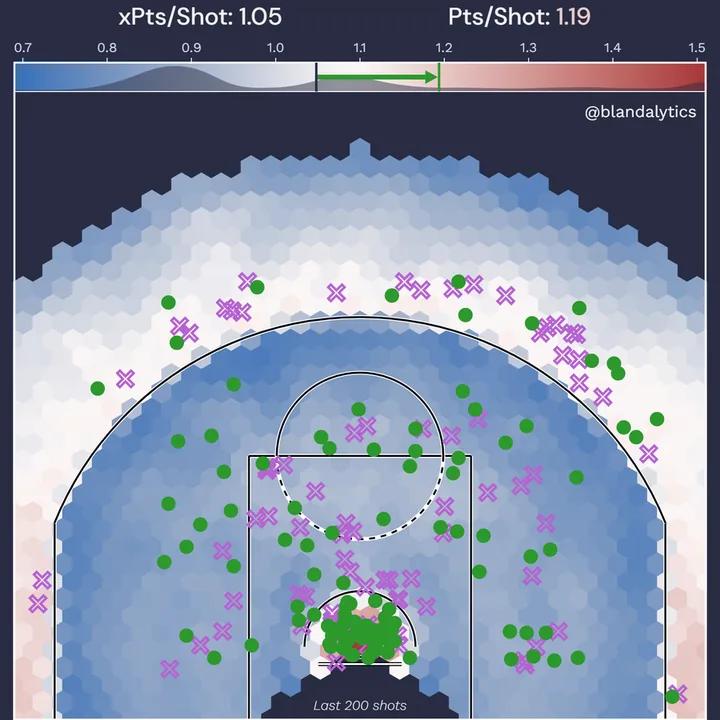
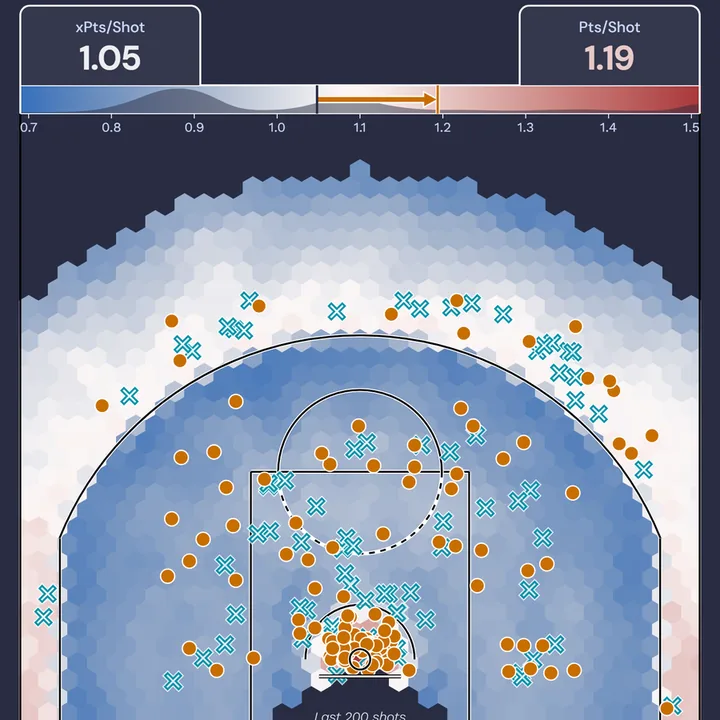
NBA Shot Charts: balanced amber and cyan, stat pills, hoop on top, firmer court lines
- Amber (makes, points added) and cyan (misses, points given back), PLPD's pair as Model
  Drilldown uses it, each at the luminance with equal contrast against the background and white
  (#c86e00, #0092a9: ~3.7:1, ~3.4:1 against the scale's near-white midpoint). White outlines
  return on the markers, the arrow and the Pts/Shot line. The scatter uses the same pair.
- xPts/Shot and Pts/Shot sit in Lineup Sim-style pills standing on the colorbar, flush with the
  court's left and right sidelines: a label over the value in bold, in the scale's colour. The
  scale's tick labels move under the bar; the @blandalytics tag is dropped.
- The hoop and backboard draw after the shots, so they are always on top.
- Court lines keep at least 1.5 (black) and 3.5 (white) device pixels on a small canvas.
- The canvases also redraw when the pixel ratio changes at the same CSS width (Site Manager's
  note on #298).

figure.js and app.js go to v5, scatter.js to v4; the homepage tile is regrabbed (?v=5).

diff --git a/nba-shot-charts/figure.js b/nba-shot-charts/figure.js
@@ -1,19 +1,20 @@
 // NBA Shot Charts: the app's scoring summary figure (shot_summary() in nba_shot_chart.py),
 // drawn on an 800 x 1440 canvas with the app's two panels stacked: the court and its xPTS scale
-// on top, the points waterfall under it. In the app's colours: green where a player made shots and added points, purple where they
-// missed and gave some back, the xPTS court in seaborn's vlag.
+// on top, the points waterfall under it. Amber where a player made shots and added points, cyan
+// where they missed and gave some back, the xPTS court in seaborn's vlag.
 
 import { SEASON_SHOT_LIMIT, density } from "./model.js?v=1";
 
-export const W = 800, H = 1440;
+export const W = 800, H = 1460;
 
 const C = {
   bg: "#292c42", ink: "#f0f1f5", nav: "#cbd7fd",
-  // the app's green and purple, each lightened to the luminance (0.234) that gives the same contrast
-  // against the background and the scale's white midpoint (~3.7:1 and ~3.4:1), so neither needs a
-  // white edge; the purple turned a little toward violet so it doesn't read as magenta
-  green: "#2c992c", purple: "#b662d2",
+  // PLPD's amber (made, points added) and cyan (missed, points given back), as Model Drilldown
+  // uses them, each set to the luminance (0.234) with the same contrast against the background and
+  // white (~3.7:1, ~3.4:1 against the scale's near-white midpoint)
+  amber: "#c86e00", cyan: "#0092a9",
   line: "#000000", outline: "#ffffff",
+  pill: "#34374c",   // PLPD card-bg-hover: a step up from the background, as Lineup Sim's stat box
 };
 const DISPLAY = '"DM Sans", system-ui, sans-serif';
 const TEXT = '"Work Sans", system-ui, sans-serif';
@@ -33,7 +34,7 @@ function colormap(cmap) {
 // ---- layout ------------------------------------------------------------------------------
 
 // the court: data x -250..250, y -53..400 (the app's xlim / ylim), hoop at (0, 0)
-const COURT = { x0: 40, scale: 1.44, top: 180, xlim: [-250, 250], ylim: [-53, 400] };
+const COURT = { x0: 40, scale: 1.44, top: 200, xlim: [-250, 250], ylim: [-53, 400] };
 COURT.w = (COURT.xlim[1] - COURT.xlim[0]) * COURT.scale;
 COURT.h = (COURT.ylim[1] - COURT.ylim[0]) * COURT.scale;
 COURT.bottom = COURT.top + COURT.h;
@@ -56,6 +57,9 @@ export function draw(canvas, sum, grid, { scale = 2, title } = {}) {
   canvas.height = H * scale;
   const ctx = canvas.getContext("2d");
   ctx.setTransform(scale, 0, 0, scale, 0, 0);
+  // court line widths, held to at least 1.5 (black) and 3.5 (white) device pixels on a small canvas
+  LINE.inner = Math.max(2, 1.5 / scale);
+  LINE.outer = Math.max(4, 3.5 / scale);
   ctx.fillStyle = C.bg;
   ctx.fillRect(0, 0, W, H);
 
@@ -106,33 +110,36 @@ function court(ctx, sum, grid, heat) {
 
   courtLines(ctx);
   shots(ctx, sum.marked);
+  rim(ctx);   // over the shots: the hoop and backboard always show
   ctx.restore();
 
-  text(ctx, "@blandalytics", cx(242.5), cy(385), { font: `400 17px ${TEXT}`, align: "right" });
   if (sum.limited) {
     text(ctx, `Last ${SEASON_SHOT_LIMIT} shots`, cx(0), cy(-47.5), { font: `italic 300 14px ${TEXT}`, align: "center", baseline: "bottom" });
   }
 }
 
+const LINE = { inner: 2, outer: 4 };
+
+const Y_ADJ = 52.5;   // the baseline sits this far below the hoop
+const arc = (x, y, r, t1, t2, dash) => (c) => {
+  c.setLineDash(dash ? [6, 6] : []);
+  c.beginPath();
+  c.arc(cx(x), cy(y), r * COURT.scale, -t2 * Math.PI / 180, -t1 * Math.PI / 180);
+  c.stroke();
+};
+const seg = (x1, y1, x2, y2) => (c) => {
+  c.setLineDash([]);
+  c.beginPath();
+  c.moveTo(cx(x1), cy(y1));
+  c.lineTo(cx(x2), cy(y2));
+  c.stroke();
+};
+
 // every line twice, as the app draws them: a white outline under a black line
 function courtLines(ctx) {
-  const yAdj = 52.5;
-  const arc = (x, y, r, t1, t2, dash) => (c) => {
-    c.setLineDash(dash ? [6, 6] : []);
-    c.beginPath();
-    c.arc(cx(x), cy(y), r * COURT.scale, -t2 * Math.PI / 180, -t1 * Math.PI / 180);
-    c.stroke();
-  };
-  const seg = (x1, y1, x2, y2) => (c) => {
-    c.setLineDash([]);
-    c.beginPath();
-    c.moveTo(cx(x1), cy(y1));
-    c.lineTo(cx(x2), cy(y2));
-    c.stroke();
-  };
+  const yAdj = Y_ADJ;
   const pairs = [
-    // hoop, restricted area
-    [arc(0, 0, 7.5, 0, 360), 4, 2],
+    // restricted area
     [arc(0, 0, 40, 0, 180), 4, 2],
     // three-point arc and corners
     [arc(0, 0, 237.5, 22, 158), 4, 2],
@@ -143,26 +150,33 @@ function courtLines(ctx) {
     [seg(-80, -yAdj, -80, 190 - yAdj), 4, 2],
     [seg(80, -yAdj, 80, 190 - yAdj), 4, 2],
   ];
-  for (const [path, outer] of pairs) { ctx.strokeStyle = C.outline; ctx.lineWidth = outer; path(ctx); }
-  for (const [path, , inner] of pairs) { ctx.strokeStyle = C.line; ctx.lineWidth = inner; path(ctx); }
+  for (const [path] of pairs) { ctx.strokeStyle = C.outline; ctx.lineWidth = LINE.outer; path(ctx); }
+  for (const [path] of pairs) { ctx.strokeStyle = C.line; ctx.lineWidth = LINE.inner; path(ctx); }
 
   // the free-throw circle: a white ring, solid black on top, dashed black underneath
-  ctx.strokeStyle = C.outline; ctx.lineWidth = 4; arc(0, 190 - yAdj, 60, 0, 360)(ctx);
-  ctx.strokeStyle = C.line; ctx.lineWidth = 2;
+  ctx.strokeStyle = C.outline; ctx.lineWidth = LINE.outer; arc(0, 190 - yAdj, 60, 0, 360)(ctx);
+  ctx.strokeStyle = C.line; ctx.lineWidth = LINE.inner;
   arc(0, 190 - yAdj, 60, 0, 180)(ctx);
   arc(0, 190 - yAdj, 60, 180, 360, true)(ctx);
-  // the backboard: black under white
-  ctx.strokeStyle = C.line; ctx.lineWidth = 4; seg(-30, 40 - yAdj, 30, 40 - yAdj)(ctx);
-  ctx.strokeStyle = C.outline; ctx.lineWidth = 2; seg(-30, 40 - yAdj, 30, 40 - yAdj)(ctx);
   // baseline and sidelines, white
-  ctx.lineWidth = 2;
+  ctx.lineWidth = LINE.inner;
   seg(-250, -yAdj, 250, -yAdj)(ctx);
   seg(-249, -yAdj, -249, 470)(ctx);
   seg(249, -yAdj, 249, 470)(ctx);
   ctx.setLineDash([]);
 }
 
-// misses as an open purple X, makes as a green dot
+// the hoop (black over white) and backboard (white over black), drawn last
+function rim(ctx) {
+  const board = seg(-30, 40 - Y_ADJ, 30, 40 - Y_ADJ), hoop = arc(0, 0, 7.5, 0, 360);
+  ctx.strokeStyle = C.line; ctx.lineWidth = LINE.outer; board(ctx);
+  ctx.strokeStyle = C.outline; ctx.lineWidth = LINE.inner; board(ctx);
+  ctx.strokeStyle = C.outline; ctx.lineWidth = LINE.outer; hoop(ctx);
+  ctx.strokeStyle = C.line; ctx.lineWidth = LINE.inner; hoop(ctx);
+  ctx.setLineDash([]);
+}
+
+// misses as an open cyan X over a white one, makes as an amber dot with a white edge
 function shots(ctx, marked) {
   const xPath = (x, y, r) => {
     const t = r * 0.32;   // matplotlib's "X": a filled cross, drawn here by its outline
@@ -175,13 +189,15 @@ function shots(ctx, marked) {
   for (const s of marked) {
     if (s.made) continue;
     xPath(cx(s.x), cy(s.y), 8.5);
-    ctx.strokeStyle = C.purple; ctx.lineWidth = 2.5; ctx.stroke();
+    ctx.globalAlpha = 0.75; ctx.strokeStyle = C.outline; ctx.lineWidth = 4.5; ctx.stroke();
+    ctx.globalAlpha = 1; ctx.strokeStyle = C.cyan; ctx.lineWidth = 2; ctx.stroke();
   }
   for (const s of marked) {
     if (!s.made) continue;
     ctx.beginPath();
     ctx.arc(cx(s.x), cy(s.y), 7.5, 0, Math.PI * 2);
-    ctx.fillStyle = C.green; ctx.fill();
+    ctx.fillStyle = C.amber; ctx.fill();
+    ctx.strokeStyle = C.outline; ctx.lineWidth = 1.4; ctx.stroke();
   }
 }
 
@@ -213,28 +229,35 @@ function colorbar(ctx, sum, heat) {
   ctx.lineWidth = 1;
   ctx.beginPath(); ctx.moveTo(CB.x0, top + h); ctx.lineTo(CB.x0 + CB.w, top + h); ctx.stroke();
 
-  // ticks along the top, as matplotlib places them
+  // ticks under the bar, in the empty band at the top of the court (the pills sit on top of it)
   for (let v = 0.7; v <= 1.5001; v += 0.1) {
     const x = cbx(v);
     ctx.strokeStyle = C.ink; ctx.lineWidth = 1;
-    ctx.beginPath(); ctx.moveTo(x, top); ctx.lineTo(x, top - 5); ctx.stroke();
-    text(ctx, v.toFixed(1), x, top - 8, { font: `400 14px ${TEXT}`, align: "center", baseline: "bottom", color: C.nav });
+    ctx.beginPath(); ctx.moveTo(x, top + h); ctx.lineTo(x, top + h + 5); ctx.stroke();
+    text(ctx, v.toFixed(1), x, top + h + 8, { font: `400 14px ${TEXT}`, align: "center", baseline: "top", color: C.nav });
   }
 
   const { expected, actual } = sum;
   const clip = (v) => Math.min(Math.max(v, BAR.lo), BAR.hi);
   const up = actual - expected >= 0;
-  const tone = up ? C.green : C.purple;
+  const tone = up ? C.amber : C.cyan;
   const vline = (v, color, width) => {
     if (!Number.isFinite(v) || v < BAR.lo || v > BAR.hi) return;
     ctx.strokeStyle = color; ctx.lineWidth = width;
     ctx.beginPath(); ctx.moveTo(cbx(v), top); ctx.lineTo(cbx(v), top + h); ctx.stroke();
   };
-  // the arrow from xPts/Shot to Pts/Shot, its point on the coloured line's near edge
+  // the arrow from xPts/Shot to Pts/Shot: a white outline, then the line (white under its colour),
+  // then the arrow's fill, so its point ends on the coloured line's near edge
   const ACTUAL_W = 2.5;
   const shaft = Math.abs(actual - expected) >= 0.025 && Number.isFinite(actual) && Number.isFinite(expected)
     ? arrowPath(cbx(clip(expected)), cbx(clip(actual)) - (up ? 1 : -1) * ACTUAL_W / 2, top + h / 2)
     : null;
+  if (shaft) {
+    ctx.lineJoin = "miter";
+    ctx.strokeStyle = C.outline; ctx.lineWidth = 3;
+    ctx.stroke(shaft);
+  }
+  vline(actual, C.outline, 4.5);
   vline(actual, tone, ACTUAL_W);
   if (shaft) {
     ctx.fillStyle = tone;
@@ -242,18 +265,32 @@ function colorbar(ctx, sum, heat) {
   }
   vline(expected, C.bg, 2.5);   // xPts/Shot, in the background's colour
 
-  // each value in the scale's colour at that value, its label in white, the pair centred together
-  const label = (name, v, x) => {
-    const font = `500 25px ${DISPLAY}`;
-    const value = Number.isFinite(v) ? v.toFixed(2) : "–";
-    ctx.font = font;
-    const a = ctx.measureText(`${name}: `).width, b = ctx.measureText(value).width;
-    text(ctx, `${name}: `, x - (a + b) / 2, top - 46, { font });
-    text(ctx, value, x - (a + b) / 2 + a, top - 46, { font, color: Number.isFinite(v) ? heat(clip(v)) : C.ink });
-  };
-  label("xPts/Shot", expected, COURT.x0 + COURT.w * 0.27);
-  label("Pts/Shot", actual, COURT.x0 + COURT.w * 0.73);
+  // xPts/Shot and Pts/Shot in pills (Lineup Sim's stat box) standing on the bar, flush with the
+  // court's left and right sidelines: a small label over the value in bold, in the scale's colour
+  pill("xPts/Shot", expected, CB.x0);
+  pill("Pts/Shot", actual, CB.x0 + CB.w - PILL.w);
+
+  function pill(name, v, x0) {
+    const y0 = top - PILL.h, x1 = x0 + PILL.w, r = PILL.r;
+    const p = new Path2D();
+    p.moveTo(x0, top);
+    p.lineTo(x0, y0 + r);
+    p.arcTo(x0, y0, x0 + r, y0, r);
+    p.lineTo(x1 - r, y0);
+    p.arcTo(x1, y0, x1, y0 + r, r);
+    p.lineTo(x1, top);
+    ctx.fillStyle = C.pill;
+    ctx.fill(p);
+    ctx.strokeStyle = C.outline; ctx.lineWidth = 2; ctx.lineJoin = "miter";
+    ctx.stroke(p);
+    const mid = (x0 + x1) / 2;
+    text(ctx, name, mid, y0 + 24, { font: `500 16px ${DISPLAY}`, align: "center", color: C.nav });
+    text(ctx, Number.isFinite(v) ? v.toFixed(2) : "–", mid, y0 + 58,
+      { font: `700 36px ${DISPLAY}`, align: "center", color: Number.isFinite(v) ? heat(clip(v)) : C.ink });
+  }
 }
+
+const PILL = { w: 190, h: 84, r: 10 };
 
 // one outline for the shaft and head, from x1 to the point at x2
 function arrowPath(x1, x2, y) {
@@ -290,7 +327,7 @@ function waterfall(ctx, sum) {
 
   values.forEach((v, i) => {
     const start = fy(cum[i] - v), end = fy(cum[i]);
-    ctx.fillStyle = v >= 0 ? C.green : C.purple;
+    ctx.fillStyle = v >= 0 ? C.amber : C.cyan;
     ctx.fill(bar(fx(i - 0.4), fx(i + 0.4), start, end));
   });
   // dotted steps from each bar's top to the next
@@ -304,7 +341,7 @@ function waterfall(ctx, sum) {
   ctx.beginPath(); ctx.moveTo(fx(-0.48), fy(total)); ctx.lineTo(fx(5.5), fy(total)); ctx.stroke();
 
   values.forEach((v, i) => {
-    const tone = v >= 0 ? C.green : C.purple;
+    const tone = v >= 0 ? C.amber : C.cyan;
     text(ctx, cats[i][0], fx(i), fy(max * 1.075) - 10, { font: `500 15px ${DISPLAY}`, align: "center" });
     text(ctx, cats[i][1], fx(i), fy(max * 1.075) + 10, { font: `500 15px ${DISPLAY}`, align: "center" });
     tag(ctx, `${v >= 0 ? "+" : "−"}${Math.abs(v).toFixed(1)}`, fx(i), fy(cum[i]), tone, sum.game == null ? 14 : 17);

diff --git a/nba-shot-charts/index.html b/nba-shot-charts/index.html
@@ -108,7 +108,7 @@ p{text-wrap:pretty}
 
   <section class="plpd-pane" aria-labelledby="chart_title">
     <h2 class="plpd-pane__title" id="chart_title">Scoring Chart</h2>
-    <p class="plpd-pane__desc">How a player scored, or didn't, in one game or across the season. Points come from shot volume (the average shot is worth 1.09 points), shot quality (expected points per shot above or below that), shot making (points above expected), free throws a player's shots should earn (about 0.78 points per attempt), free throws drawn beyond that, and free throws made. Green marks makes and points added; purple marks misses and points given back. The court is shaded by each spot's expected points per shot, and the bar above it shows the player's spread of shots across that scale.</p>
+    <p class="plpd-pane__desc">How a player scored, or didn't, in one game or across the season. Points come from shot volume (the average shot is worth 1.09 points), shot quality (expected points per shot above or below that), shot making (points above expected), free throws a player's shots should earn (about 0.78 points per attempt), free throws drawn beyond that, and free throws made. Amber marks makes and points added; cyan marks misses and points given back. The court is shaded by each spot's expected points per shot, and the bar above it shows the player's spread of shots across that scale.</p>
     <div class="controls">
       <label class="plpd-filter-field"><span class="plpd-filter-field__label">Season</span>
         <select id="season" class="plpd-filter-dropdown" disabled></select></label>
@@ -130,7 +130,7 @@ p{text-wrap:pretty}
         <select id="game" class="plpd-filter-dropdown" disabled></select></label>
     </div>
     <p id="status" class="plpd-status">Loading the seasons…</p>
-    <div class="figure chart" id="chart_box" hidden><canvas id="fig" width="1600" height="2880" role="img" aria-label="Scoring summary"></canvas></div>
+    <div class="figure chart" id="chart_box" hidden><canvas id="fig" width="1600" height="2920" role="img" aria-label="Scoring summary"></canvas></div>
     <div class="actions"><button id="share_png" class="plpd-btn" type="button" hidden>Share image ▾</button></div>
   </section>
 
@@ -192,6 +192,6 @@ p{text-wrap:pretty}
   </section>
 </div>
 <script src="/shared/share-image.js?v=2"></script>
-<script type="module" src="app.js?v=4"></script>
+<script type="module" src="app.js?v=5"></script>
 </body>
 </html>

diff --git a/nba-shot-charts/scatter.js b/nba-shot-charts/scatter.js
@@ -2,7 +2,7 @@
 // Shot making across, shot quality up; each dashed diagonal is one more standard deviation
 // of points added, the solid one through the average.
 
-const C = { bg: "#292c42", ink: "#f0f1f5", nav: "#cbd7fd", axis: "#cbd7fd", green: [44, 153, 44], purple: [182, 98, 210] };   // figure.js's green and purple
+const C = { bg: "#292c42", ink: "#f0f1f5", nav: "#cbd7fd", axis: "#cbd7fd", amber: [200, 110, 0], cyan: [0, 146, 169] };   // figure.js's amber and cyan
 const DISPLAY = '"DM Sans", system-ui, sans-serif';
 const TEXT = '"Work Sans", system-ui, sans-serif';
 
@@ -44,12 +44,12 @@ export function drawScatter(canvas, va, { scale = 2 } = {}) {
   diagonal(0, "#ffffff", []);
   ctx.setLineDash([]);
 
-  // the app's colorscale: purple, white at zero points added, green
+  // the app's colorscale, in figure.js's colours: cyan, white at zero points added, amber
   const lo = Math.min(...added), hi = Math.max(...added);
   const white = hi > lo ? -lo / (hi - lo) : 0.5;
   const tone = (v) => {
     const t = hi > lo ? (v - lo) / (hi - lo) : 0.5;
-    const [a, b, f] = t < white ? [C.purple, [255, 255, 255], t / white] : [[255, 255, 255], C.green, (t - white) / (1 - white)];
+    const [a, b, f] = t < white ? [C.cyan, [255, 255, 255], t / white] : [[255, 255, 255], C.amber, (t - white) / (1 - white)];
     return `rgb(${a.map((x, i) => Math.round(x + (b[i] - x) * (Number.isFinite(f) ? f : 0))).join(",")})`;
   };
   const points = rows.map((r) => ({ row: r, x: px(r.make), y: py(r.qual) }));

diff --git a/nba-shot-charts/app.js b/nba-shot-charts/app.js
@@ -5,8 +5,8 @@
 // A chart is linkable as #<season>/<player id>/<game id | season>.
 
 import { prepare, defaultPick, summary, seasonBoard, gameBoard, valueAdded, teamMinutes } from "./model.js?v=1";
-import { draw, W as FIG_W } from "./figure.js?v=4";
-import { drawScatter, SW } from "./scatter.js?v=3";
+import { draw, W as FIG_W } from "./figure.js?v=5";
+import { drawScatter, SW } from "./scatter.js?v=4";
 
 const params = new URLSearchParams(location.search);
 const DATA = new URL(params.get("data") || "https://data.blandalytics.com/", location.href).href;
@@ -480,4 +480,13 @@ async function start() {
 
 resized.observe(el.chartBox);
 resized.observe(el.vaBox);
+// a change of pixel ratio at the same CSS width (a window dragged to another screen, some zooms)
+// redraws too; the query matches only the current ratio, so it re-arms after each change
+(function watchRatio() {
+  matchMedia(`(resolution: ${window.devicePixelRatio || 1}dppx)`).addEventListener("change", () => {
+    drawnAt.clear();
+    if (state.data) { if (!el.chartBox.hidden) drawChart(); renderValueAdded(); }
+    watchRatio();
+  }, { once: true });
+})();
 start();

diff --git a/index.html b/index.html
@@ -284,7 +284,7 @@
 								<div class="tiles">
 									<article class="style2">
 									<span class="image">
-										<img src="images/tile-nba-shot-charts.webp?v=4" srcset="images/tile-nba-shot-charts-720.webp?v=4 720w, images/tile-nba-shot-charts.webp?v=4 900w" sizes="(max-width: 480px) 100vw, (max-width: 980px) 50vw, 380px" width="900" height="900" alt="NBA shot chart: makes and misses over a court shaded by expected points per shot" />
+										<img src="images/tile-nba-shot-charts.webp?v=5" srcset="images/tile-nba-shot-charts-720.webp?v=5 720w, images/tile-nba-shot-charts.webp?v=5 900w" sizes="(max-width: 480px) 100vw, (max-width: 980px) 50vw, 380px" width="900" height="900" alt="NBA shot chart: makes and misses over a court shaded by expected points per shot" />
 									</span>
 									<a href="/nba-shot-charts/">
 										<h2>NBA Shot Charts</h2>

diff --git a/tools/homepage/make_tiles.py b/tools/homepage/make_tiles.py
@@ -48,8 +48,8 @@ CROPS = {
     "lineup-sims": (0.0, 0.0),           # the KPIs and the comparison strips
     "game-sim": None,                    # square already: the score grid's share image
     "created-runs": (0.0, 0.0),          # the title over the top of the leaderboard: names, CR and the batting columns
-    # the court under its xPTS scale and per-shot line (a box, in the 1600 x 2880 export's pixels)
-    "nba-shot-charts": (53, 170, 1547, 1664),
+    # the court under its xPTS scale and per-shot line (a box, in the 1600 x 2920 export's pixels)
+    "nba-shot-charts": (40, 160, 1560, 1680),
 }
 
 

diff --git a/README.md b/README.md
@@ -1499,9 +1499,9 @@ be loaded on the page itself, without deploying, through the *Projections* file 
 player scored in one game or across a season. It is the
 [nba-scoring-chart.streamlit.app](https://nba-scoring-chart.streamlit.app/) app
 ([Blandalytics/nba_shot_chart](https://github.com/Blandalytics/nba_shot_chart)) rebuilt for the
-browser on the PLPD design system, its figures in the app's colours (green for makes and points
-added, purple for misses and points given back, the court in seaborn's `vlag`), the green and
-purple lightened to equal contrast against the background and the scale's white midpoint: the
+browser on the PLPD design system: amber for makes and points added and cyan for misses and
+points given back (as Model Drilldown uses them), each set to equal contrast against the
+background and white, and the court in the app's seaborn `vlag`. It holds the
 scoring chart (the app's two panels stacked, the court shaded by the xFG model's expected points
 per shot with the shots and their xPTS spread on the scale above it, then the six-part points
 waterfall underneath), the season and game leaderboards (totals or per shot, with the app's two
